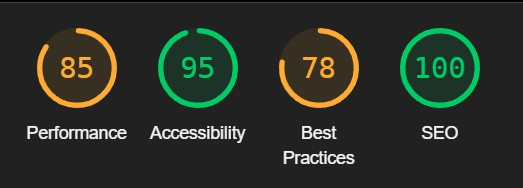
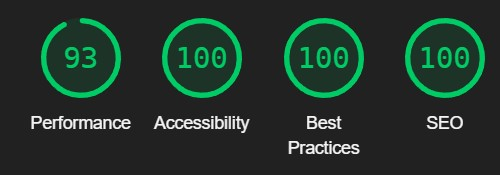
Update: Added lazy load for mobile performance optimisation

diff --git a/templates/base.html b/templates/base.html
@@ -46,8 +46,16 @@
     <!-- Navigation -->
     <nav class="navbar navbar-expand-lg">
         <div class="container-fluid">
-            <a class="navbar-brand" href="{% url 'order_url' %}" aria-label="Order Pizza">
+            <!--<a class="navbar-brand" href="{% url 'order_url' %}" aria-label="Order Pizza">
                 <img src="{% static 'images/logo.webp' %}" alt="PizzaMe Logo" width="225" height="221">
+            </a>-->
+            <a class="navbar-brand" href="{% url 'order_url' %}" aria-label="Order Pizza">
+                <picture>
+                    <!-- Mobile logo -->
+                    <source srcset="{% static 'images/logo-mobile.webp' %}" media="(max-width: 768px)">
+                    <!-- Desktop logo -->
+                    <img src="{% static 'images/logo.webp' %}" alt="PizzaMe Logo" width="225" height="221">
+                </picture>
             </a> 
             <button class="navbar-toggler" type="button" data-bs-toggle="collapse" data-bs-target="#navbarText" aria-controls="navbarText" aria-expanded="false" aria-label="Toggle navigation">
                 <span class="navbar-toggler-icon"></span>

diff --git a/pizza/templates/pizza/order.html b/pizza/templates/pizza/order.html
@@ -28,7 +28,7 @@
                       {% if "placeholder" in pizza.featured_image.url %}
                       <img class="card-img-top" src="{% static 'images/default.jpg' %}" alt="placeholder image" width="368px" height="368px">
                       {% else %}
-                      <img class="card-img-top" src="{{ pizza.featured_image.url }}" alt="{{ pizza.name }}" width="368px" height="368px">
+                      <img class="card-img-top" src="{{ pizza.featured_image.url }}" alt="{{ pizza.name }}" width="368px" height="368px" {% if forloop.counter > 1 %}loading="lazy"{% endif %}>
                       {% endif %}
                       <div class="image-flash">
                         <p class="Pizza">Pizza: {{ pizza.name }}</p>
